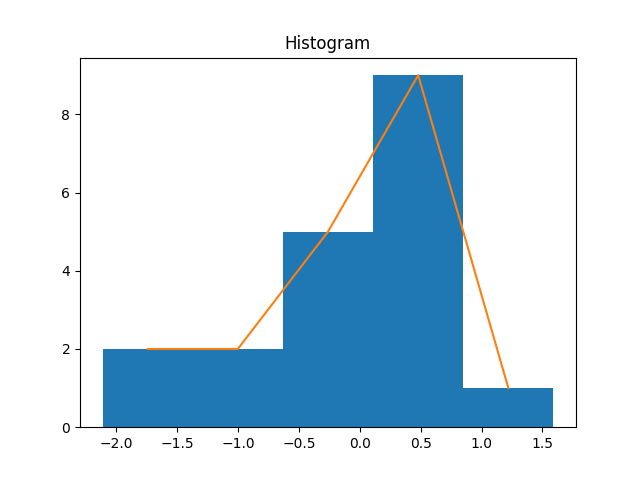
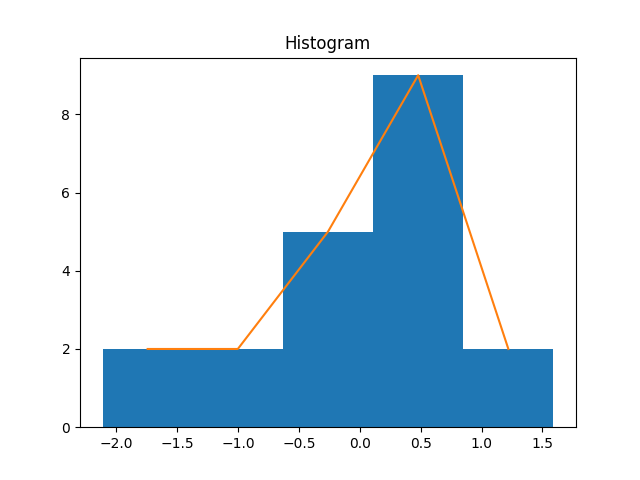
[ploti] fixed histogram scope

Changed region(s): [[0.6875, 0.3125, 0.875, 0.8125], [0.6562, 0.1875, 0.6875, 0.3125]]

diff --git a/stati.py b/stati.py
@@ -109,7 +109,7 @@ def empirical_distribution_function(numbers: Collection[Number]) -> Function:
 def partition(scope: Interval, n: int) -> Iterable[Interval]:
     step = scope.length / n
     current = scope.begin + step
-    while current < scope.end:
+    while current <= scope.end:
         yield Interval(current - step, current)
         current += step
 
@@ -123,10 +123,10 @@ def sturges_step(numbers: Collection[Number]) -> Number:
 
 
 def histogram(numbers: Collection[Number], step) -> Histogram:
+    F = empirical_distribution_function(numbers)
+    scope = Interval(min(numbers) - step / 2, max(numbers) + 0.00000001)
+    bins = ceil(scope.length / step)
     def generate():
-        F = empirical_distribution_function(numbers)
-        scope = Interval(min(numbers) - step / 2, max(numbers))
-        bins = ceil(scope.length / step)
         for interval in partition(scope, bins):
             count = (F(interval.end) - F(interval.begin)) * len(numbers)
             yield Bin(interval, count)
